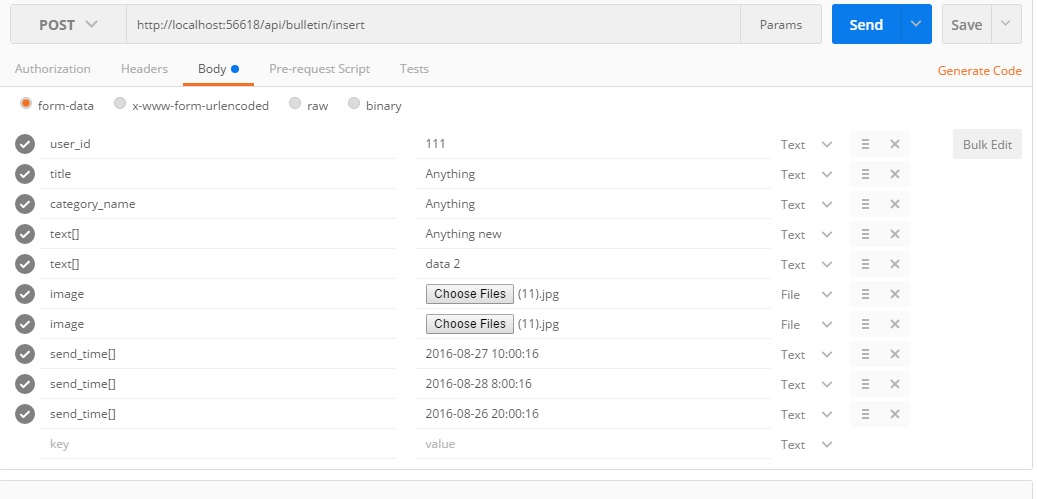
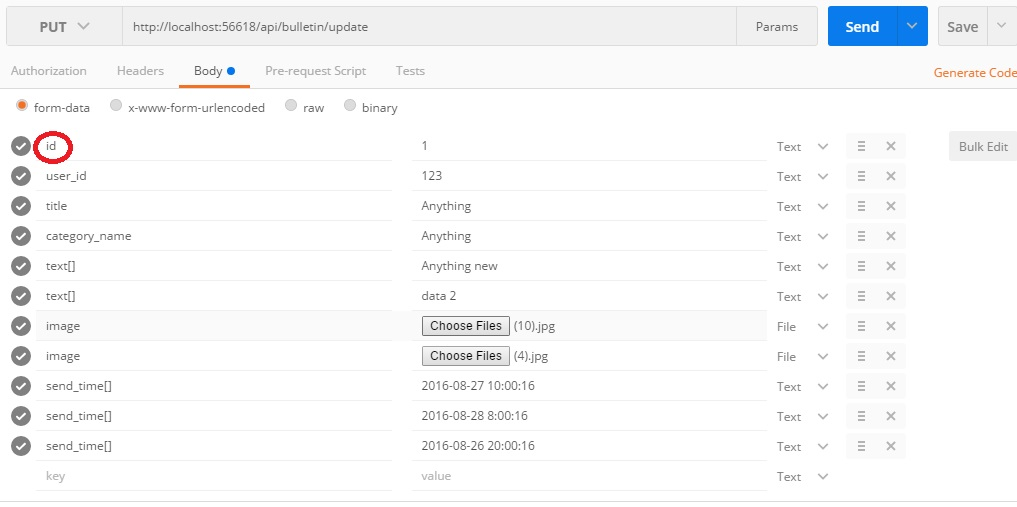
Update Done

diff --git a/src/Mcp/Controllers/api/Admin/BulletinController.cs b/src/Mcp/Controllers/api/Admin/BulletinController.cs
@@ -55,34 +55,33 @@ namespace McpSmyrilLine.api
         }
 
         [HttpPost]
-        public IActionResult Insert(BulletinViewModel data, ICollection<IFormFile> image)
+        public async Task<IActionResult> Insert(BulletinViewModel data, ICollection<IFormFile> image)
         {
             bool is_immediate_bulletin;
             List<Description> bulletinDescription   = new List<Description>();
             List<BulletinTime> bulletinTime         = new List<BulletinTime>();
 
-            foreach (var description in data.text)
+            if(data.text.Length>0)
             {
-                bulletinDescription.Add(new Description { Text = description });
+                foreach (var description in data.text)
+                {
+                    bulletinDescription.Add(new Description { Text = description });
+                }
             }
 
-            if(data.send_time.Length>0)
+            if (data.send_time.Length>0)
             {
                 is_immediate_bulletin = false;
+
+                foreach (var send_time in data.send_time)
+                {
+                    bulletinTime.Add(new BulletinTime { SendTime = send_time });
+                }
             }
             else
             {
                 is_immediate_bulletin = true;
             }
-
-            foreach (var send_time in data.send_time)
-            {
-                bulletinTime.Add(new BulletinTime { SendTime = send_time });
-            }
-            //if "data.send_time" contains 0 element, then the bulletin should be sent immediately,
-            //wtherwise will be sent by times mentioned
-
-            //string filename1 = _environment.WebRootPath;
 
             List<Image> bulletinImages = new List<Image>();
             string path = Directory.GetCurrentDirectory();
@@ -130,75 +129,89 @@ namespace McpSmyrilLine.api
             return Ok(bulletin);
         }
 
-        //[HttpPut]
-        //public IActionResult Update(BulletinViewModel data, ICollection<IFormFile> image)
-        //{
-        //    //db.People.RemoveRange(db.People.Where(x => x.State == "CA"));
-        //    //db.SaveChanges();
-        //    using (var db = new BloggingContext())
-        //    {
-        //        var blog = db.Blogs.Include(b => b.Posts).First();
-        //        db.Remove(blog);
-        //        db.SaveChanges();
-        //    }
+        [HttpPut]
+        public async Task<IActionResult> Update(BulletinViewModel data, ICollection<IFormFile> image)
+        {
+            List<Description> bulletinDescriptions = new List<Description>();
+            List<BulletinTime> bulletinTime = new List<BulletinTime>();
+            List<Image> bulletinImages = new List<Image>();
 
-        //    List<Description> bulletinDescription = new List<Description>();
-        //    List<BulletinTime> bulletinTime = new List<BulletinTime>();
+            string path = Directory.GetCurrentDirectory();
 
-        //    foreach (var description in data.text)
-        //    {
-        //        bulletinDescription.Add(new Description { Text = description });
-        //    }
+            var bulletin = _context.Bulletin
+                .Include(u => u.Descriptions)
+                .Include(u => u.Images)
+                .Include(u => u.BulletinTimes)
+                .Where(x=> x.Id ==data.id)
+                .SingleOrDefault();
 
-        //    foreach (var send_time in data.send_time)
-        //    {
-        //        bulletinTime.Add(new BulletinTime { SendTime = send_time });
-        //    }
-        //    //if "data.send_time" contains 0 element, then the bulletin should be sent immediately,
-        //    //wtherwise will be sent by times mentioned
+            //Single Data - Update
+            bulletin.UserId = data.user_id;
+            bulletin.CategoryName = data.category_name;
+            bulletin.Title = data.title;
 
-        //    //string filename1 = _environment.WebRootPath;
+            //List data - remove all previous data
+            bulletin.Descriptions.RemoveAll(x => x.BulletinId == data.id);
+            //Delete all files from Server
+            foreach (Image imageTodelete in bulletin.Images)
+            {
+                //File.Delete(imageTodelete.Name);
+                FileInfo file = new FileInfo(uploadDirectory + $@"/{imageTodelete.Name}");
+                file.Delete();  //As we surely know, file is there, if not, we should check that
+            }
+            bulletin.Images.RemoveAll(x=>x.BulletinId==data.id);
+            bulletin.BulletinTimes.RemoveAll(x => x.BulletinId == data.id);
 
-        //    List<Image> bulletinImages = new List<Image>();
-        //    string path = Directory.GetCurrentDirectory();
+            //Update List data - if there is anything available
+            if (data.text.Length > 0)
+            {
+                foreach (var description in data.text)
+                {
+                    bulletinDescriptions.Add(new Description { Text = description });
+                }
+            }
 
-        //    foreach (var file in image)
-        //    {
-        //        string fileName = Path.GetFileNameWithoutExtension(file.FileName);
-        //        string extention = Path.GetExtension(file.FileName);
+            if (data.send_time.Length > 0)
+            {
+                foreach (var send_time in data.send_time)
+                {
+                    bulletinTime.Add(new BulletinTime { SendTime = send_time });
+                }
+            }
 
-        //        var filename = (data.user_id
-        //                        + "_"
-        //                        + Guid.NewGuid().ToString()
-        //                        + "_"
-        //                        + fileName
-        //                        + extention).Trim('"');
+            foreach (var file in image)
+            {
+                string fileName = Path.GetFileNameWithoutExtension(file.FileName);
+                string extention = Path.GetExtension(file.FileName);
 
-        //        bulletinImages.Add(new Image { Name = filename });
+                var filename = (data.user_id
+                                + "_"
+                                + Guid.NewGuid().ToString()
+                                + "_"
+                                + fileName
+                                + extention).Trim('"');
 
-        //        var serverFile = uploadDirectory + $@"/{filename}";
-        //        //file.Length;
-        //        using (FileStream fileStream = System.IO.File.Create(serverFile))
-        //        {
-        //            file.CopyTo(fileStream);
-        //            fileStream.Flush();
-        //        }
-        //    }
+                bulletinImages.Add(new Image { Name = filename });
 
-        //    Bulletin bulletin = new Bulletin
-        //    {
-        //        UserId          = data.user_id,
-        //        Title           = data.title,
-        //        Descriptions    = bulletinDescription,
-        //        Images          = bulletinImages,
-        //        BulletinTimes   = bulletinTime
-        //    };
+                var serverFile = uploadDirectory + $@"/{filename}";
+                //file.Length;
+                using (FileStream fileStream = System.IO.File.Create(serverFile))
+                {
+                    file.CopyTo(fileStream);
+                    fileStream.Flush();
+                }
+            }
 
-        //    _context.Bulletin.Add(bulletin);
-        //    _context.SaveChanges();
+            //Update Data
+            bulletin.Descriptions = bulletinDescriptions;
+            bulletin.Images = bulletinImages;
+            bulletin.BulletinTimes = bulletinTime;
 
-        //    return Ok(bulletin);
-        //}
+            _context.Bulletin.Update(bulletin);
+            _context.SaveChanges();
+
+            return Ok(bulletin);
+        }
 
         //[HttpDelete]
         //public Delete(int bulletinID)

diff --git a/README.md b/README.md
@@ -68,7 +68,7 @@ Default value (if u hit - `/api/bulletin/get`)
 
 ### Url (PUT)
 
-	/api/bulletin/insert
+	/api/bulletin/update
 
 ### Parameters like this-
 
